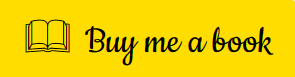
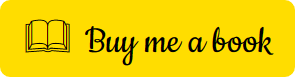
Update Readme.md

diff --git a/README.md b/README.md
@@ -68,6 +68,6 @@
 
 #
 
-[<img src="Related Images/image.png" alt="button image" style="border-radius: 10px; width: 200px;">](https://www.buymeacoffee.com/nirmal.datageek)
+[<img src="Related Images/BMB.png" alt="button image" style="border-radius: 10px; width: 200px;">](https://www.buymeacoffee.com/nirmal.datageek)
 
 <img src="Related Images/BMC-QR.png" alt="qr image" style="width: 200px;">
